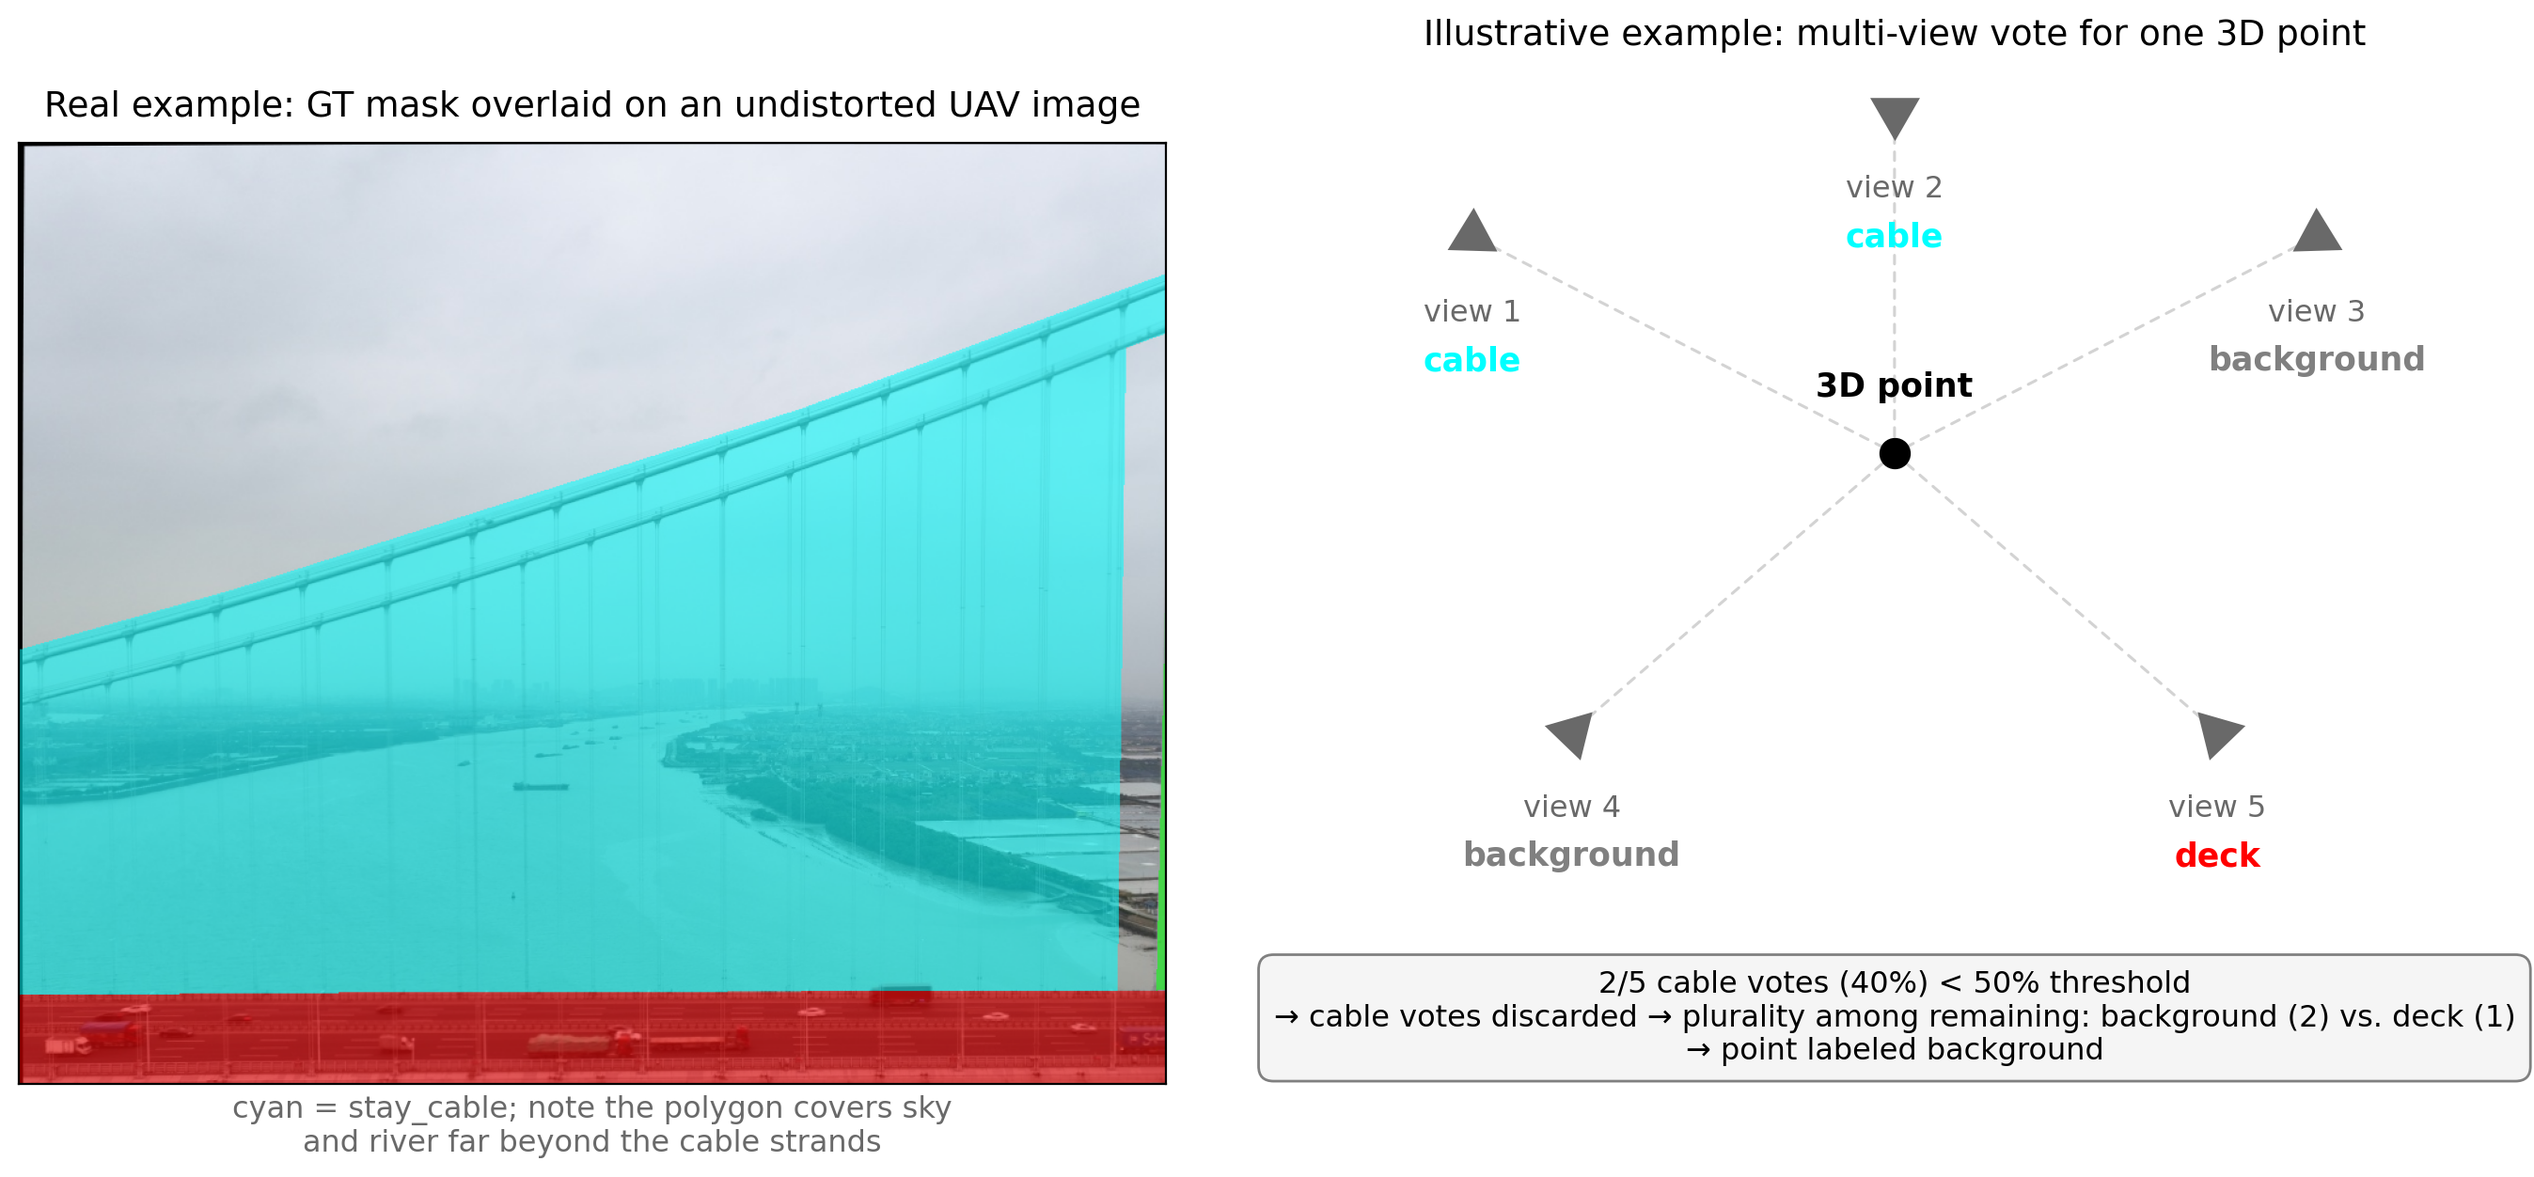
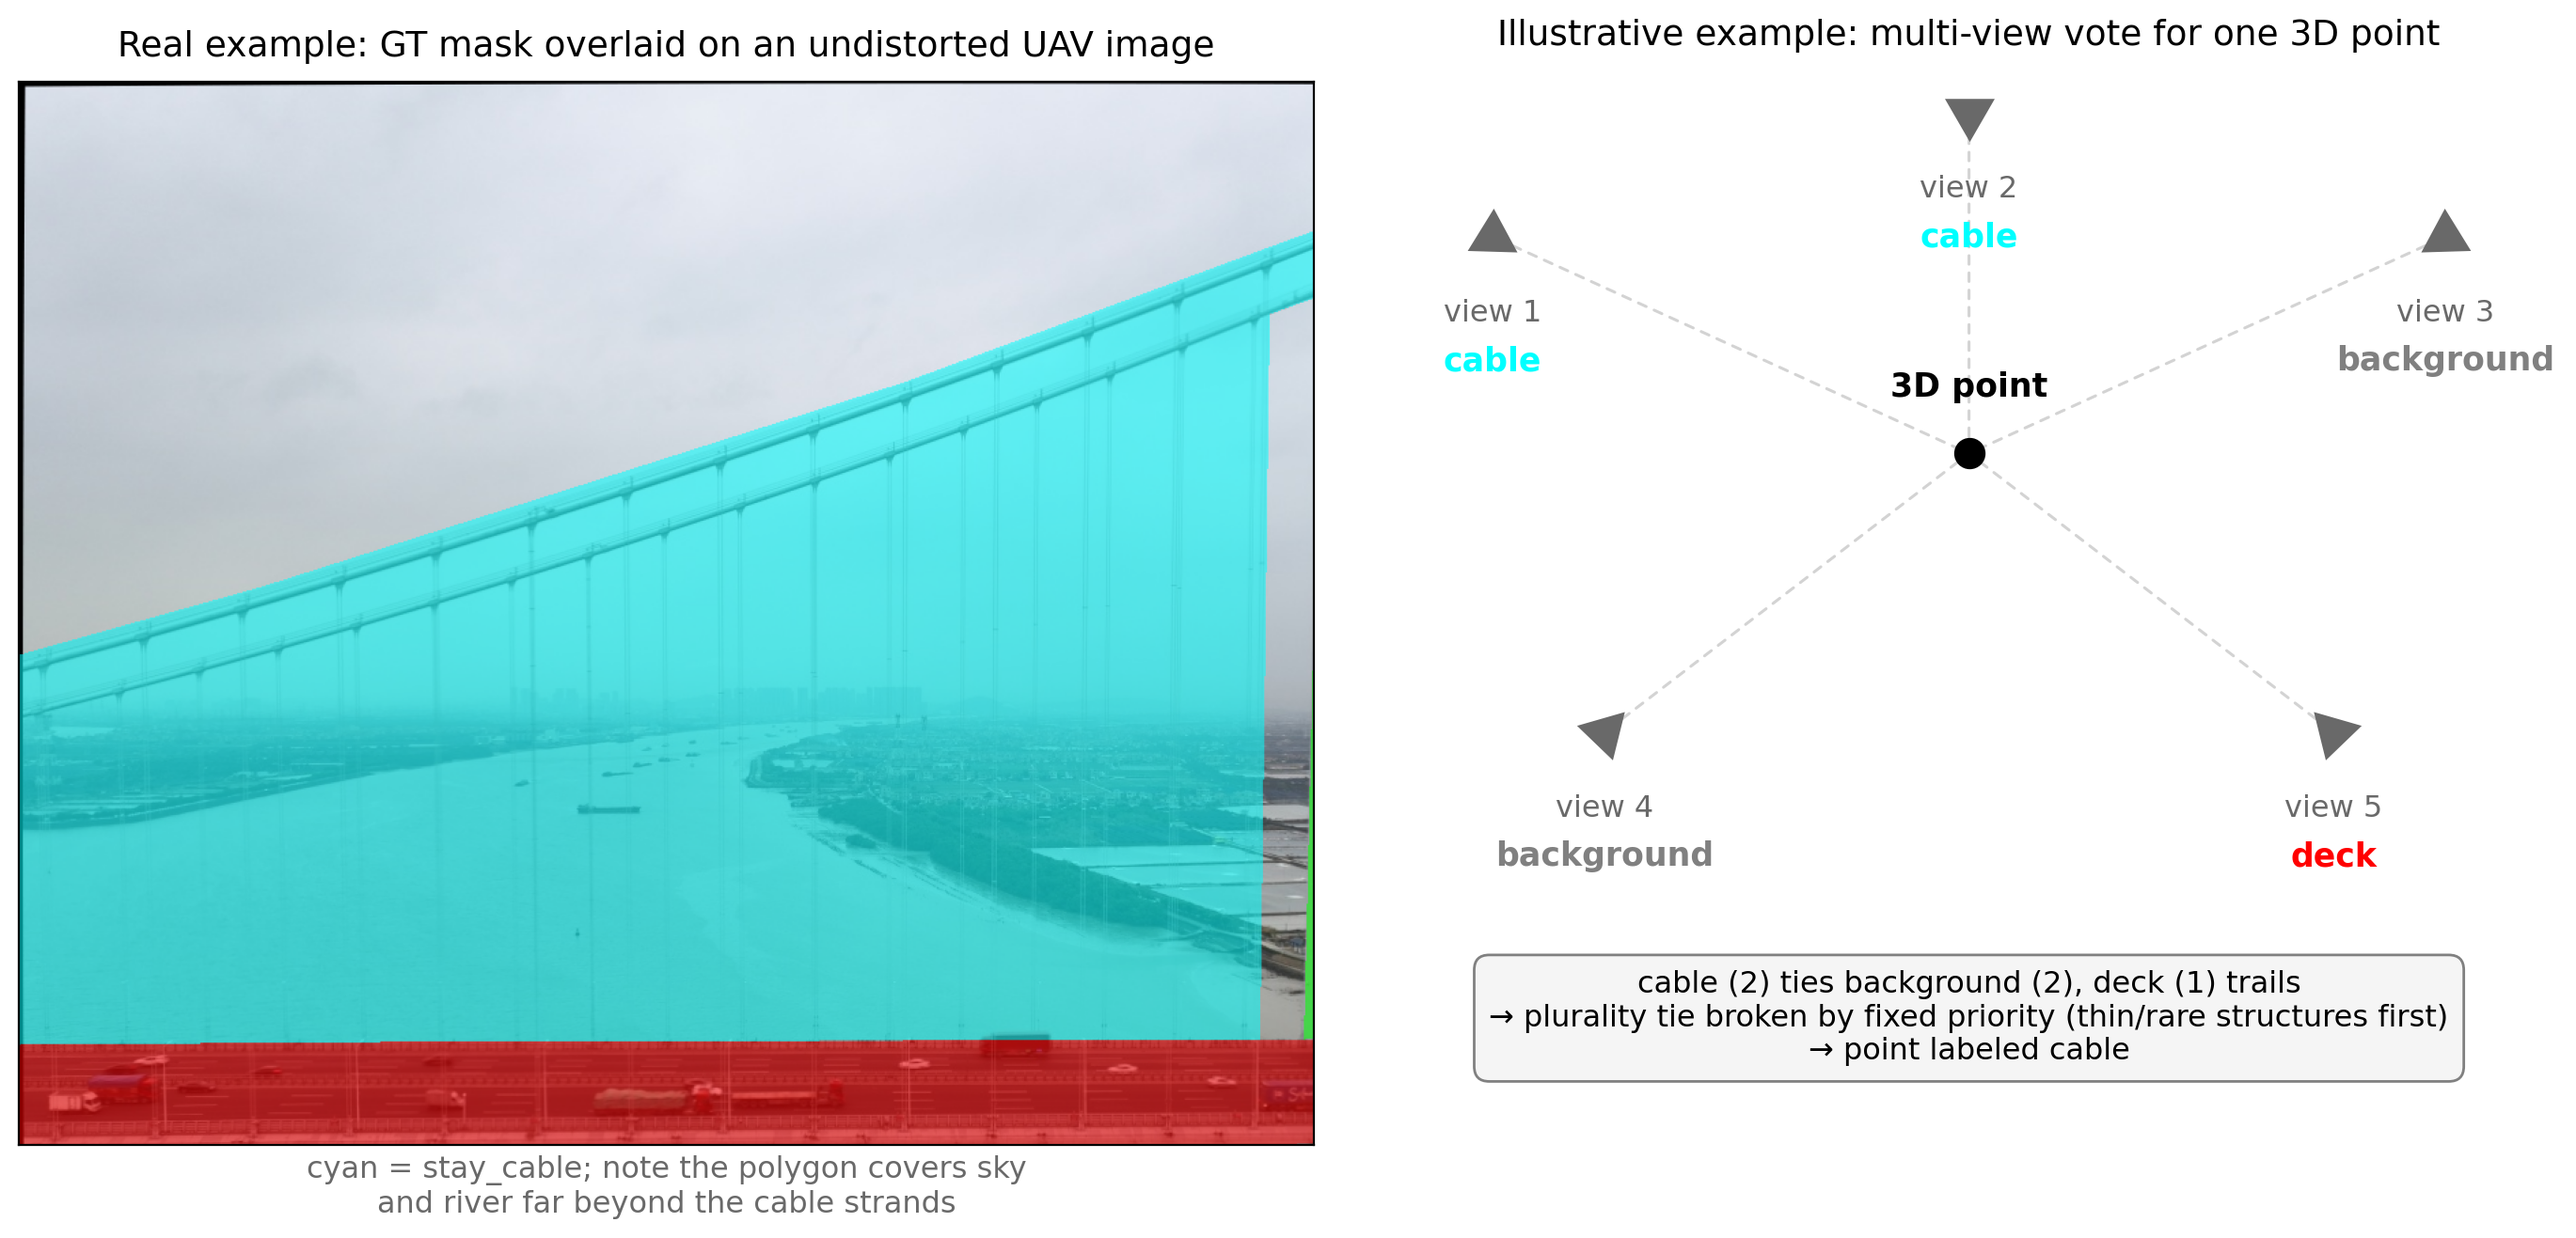
feat: describe plain plurality as the method in Abstract/Intro/Section 3.4
Rewrites the Abstract, Introduction contribution bullets, and Section
3.4's semantic warm-start description to present plain multi-view
plurality voting (with tie-break) as the actual design, moving the
strict-majority cable-specific rule to a "tested but not adopted"
alternative (elaborated in Section 5.2). Updates headline numbers to
the plain-plurality checkpoint's (PSNR 22.19, SSIM 0.849, LPIPS 0.335,
mIoU 91.28%). Regenerates Figure 1 (600,958 Gaussians, generic voting
label) and Figure 2 (right panel now illustrates plain plurality +
tie-break instead of the strict-majority mechanism).

diff --git a/src/evaluation/plot_pipeline_diagram.py b/src/evaluation/plot_pipeline_diagram.py
@@ -84,7 +84,7 @@ def plot_pipeline_diagram(output_path: str) -> str:
     b1_b, b1_t, b1_l, b1_r = _box(ax, right_x, 14.0, bw, bh, "Task A: fine-tune SegFormer\n(240 labeled training views)")
 
     # Row 2
-    a2_b, a2_t, a2_l, a2_r = _box(ax, left_x, 11.6, bw, bh, "Multi-view semantic voting\n(strict-majority rule for cable)")
+    a2_b, a2_t, a2_l, a2_r = _box(ax, left_x, 11.6, bw, bh, "Multi-view semantic voting\n(majority vote per point)")
     b2_b, b2_t, b2_l, b2_r = _box(ax, right_x, 11.6, bw, bh, "Predict pseudo-masks for\n100 unlabeled images")
 
     # Row 3
@@ -98,7 +98,7 @@ def plot_pipeline_diagram(output_path: str) -> str:
     )
 
     # Trained model
-    tm_b, tm_t, tm_l, tm_r = _box(ax, 5, 4.5, 5.4, 1.4, "Trained model\n(602,363 Gaussians)")
+    tm_b, tm_t, tm_l, tm_r = _box(ax, 5, 4.5, 5.4, 1.4, "Trained model\n(600,958 Gaussians)")
 
     # Render
     r_b, r_t, r_l, r_r = _box(ax, 5, 2.4, 7.0, 1.3, "render(pose): arbitrary camera viewpoint",
@@ -186,7 +186,7 @@ def plot_pipeline_diagram_horizontal(output_path: str) -> str:
     b1_b, b1_t, b1_l, b1_r = _box(ax, sub_r, row1_y, bw, bh, "Task A: fine-tune SegFormer\n(240 labeled training views)",
                                    face=MERGE_COLOR, edge=MERGE_EDGE, fontsize=15.5, fontweight="bold")
 
-    a2_b, a2_t, a2_l, a2_r = _box(ax, sub_l, row2_y, bw, bh, "Multi-view semantic voting\n(strict-majority rule for cable)", fontsize=15.5)
+    a2_b, a2_t, a2_l, a2_r = _box(ax, sub_l, row2_y, bw, bh, "Multi-view semantic voting\n(majority vote per point)", fontsize=15.5)
     b2_b, b2_t, b2_l, b2_r = _box(ax, sub_r, row2_y, bw, bh, "Predict pseudo-masks for\n100 unlabeled images", fontsize=15.5)
 
     a3_b, a3_t, a3_l, a3_r = _box(ax, sub_l, row3_y, bw, bh, "Semantic warm-start\n(Gaussian means,\ncolors, logits)", fontsize=15.5)
@@ -201,7 +201,7 @@ def plot_pipeline_diagram_horizontal(output_path: str) -> str:
     tm_top = merge_b[1] - CHAIN_GAP
     tm_h = 1.6
     tm_cy = tm_top - tm_h / 2
-    tm_b, tm_t, tm_l, tm_r = _box(ax, right_x, tm_cy, 6.4, tm_h, "Trained model\n(602,363 Gaussians)", fontsize=17)
+    tm_b, tm_t, tm_l, tm_r = _box(ax, right_x, tm_cy, 6.4, tm_h, "Trained model\n(600,958 Gaussians)", fontsize=17)
 
     render_top = tm_b[1] - CHAIN_GAP
     render_h = 1.5

diff --git a/src/evaluation/plot_cable_voting_figure.py b/src/evaluation/plot_cable_voting_figure.py
@@ -1,15 +1,16 @@
 """
 Renders Figure 2 (Section 3.4): a two-panel illustration of the background-bleeding problem in
-cable annotations and the strict-majority voting rule that counteracts it.
+cable annotations and the multi-view plurality voting mechanism used to initialize each
+Gaussian's semantic logits from it.
 
 Panel A is real data: a crop of an actual undistorted UAV image with its ground-truth mask
 overlaid (official per-class colors), showing that the `stay_cable` polygon covers large regions
 of sky/water rather than just the thin cable strands - not a staged example.
 
-Panel B is a schematic (not tied to one specific real 3D point) illustrating the multi-view
-voting mechanism: several cameras observe a 3D point, a minority of them see it as cable, and
-because that falls short of an absolute majority, the strict-majority rule (Section 3.4) falls
-back to plurality among the non-cable votes.
+Panel B is a schematic (not tied to one specific real 3D point) illustrating the voting
+mechanism: several cameras observe a 3D point and vote by simple plurality, with ties broken by
+a fixed priority that favors thin/rare structural classes over background. Section 5.2 discusses
+a stricter, cable-specific alternative rule we tested and did not adopt.
 """
 import os
 
@@ -94,9 +95,9 @@ def draw_voting_schematic(ax):
 
     ax.text(
         0, -4.5,
-        "2/5 cable votes (40%) < 50% threshold\n"
-        "→ cable votes discarded → plurality among remaining: background (2) vs. deck (1)\n"
-        "→ point labeled background",
+        "cable (2) ties background (2), deck (1) trails\n"
+        "→ plurality tie broken by fixed priority (thin/rare structures first)\n"
+        "→ point labeled cable",
         ha="center", va="top", fontsize=11.5, color="black",
         bbox=dict(boxstyle="round,pad=0.5", facecolor="#f5f5f5", edgecolor="gray"),
     )

diff --git a/paper/DRAFT.md b/paper/DRAFT.md
@@ -17,11 +17,10 @@ semantic logit vector, rendered jointly with color through a single fused raster
 that the two outputs are pixel-aligned by construction. A 2D segmentation model pseudo-labels
 unlabeled frames to widen semantic supervision to every available image, and the Gaussian model
 is warm-started from a multi-view, majority-voted sparse point cloud rather than random
-initialization, using a strict-majority rule that specifically counteracts the background-bleeding
-noise characteristic of thin cable annotations. On a 60-view held-out split drawn from the same
-UAV flight trajectory but excluded from every stage of training, our method achieves PSNR 22.18
-dB, SSIM 0.849, LPIPS 0.334, and structural mIoU 91.47% across the four bridge component classes
-(deck, stay cable, tower, foundation), for an illustrative Accuracy Score of 0.816. Beyond the
+initialization. On a 60-view held-out split drawn from the same UAV flight trajectory but
+excluded from every stage of training, our method achieves PSNR 22.19 dB, SSIM 0.849, LPIPS
+0.335, and structural mIoU 91.28% across the four bridge component classes (deck, stay cable,
+tower, foundation), for an illustrative Accuracy Score of 0.815. Beyond the
 contest's scoring criteria, the resulting model functions as a queryable digital twin of the
 bridge, rendering both appearance and structural identity from viewpoints never captured during
 data acquisition — a basis for downstream structural health monitoring tasks that must be scoped
@@ -73,22 +72,21 @@ We address these challenges with a semantic 3D Gaussian Splatting pipeline whose
    with no separate semantic-segmentation-of-renders post-process, and guaranteeing the two
    outputs are pixel-aligned by construction.
 2. A semantic warm-start strategy that initializes each Gaussian's class logits from multi-view
-   majority-voted labels on a triangulated sparse point cloud instead of random initialization,
-   using a strict-majority voting rule targeted specifically at the cable class to counteract its
-   characteristic background-bleeding noise.
+   majority-voted labels on a triangulated sparse point cloud instead of random initialization.
 3. A 2D pseudo-labeling stage (fine-tuned SegFormer) that extends semantic supervision to the
    100 unlabeled frames, increasing the effective training-view count from 240 to 340 at no
    additional annotation cost.
 4. An empirical study of training resolution's effect on reconstruction quality, showing
    full-resolution training yields consistent gains over half-resolution across every metric
    (Section 5.5).
-5. An ablation isolating the cable voting rule and semantic warm-start's individual
-   contributions to final holdout IoU (Section 5.2), showing that while the voting rule
-   measurably cleans the warm-start data, neither mechanism has a measurable effect on cable's
-   final IoU once training converges - evidence that training dynamics, not initialization
-   quality, explain cable's counter-intuitively strong performance.
-5. End-to-end results on the contest's trajectory-interleaved 60-view holdout: PSNR 22.18 dB,
-   SSIM 0.849, LPIPS 0.334, and structural mIoU 91.47%.
+5. An ablation isolating the semantic warm-start's contribution to final holdout IoU
+   (Section 5.2), including a stricter, cable-specific voting rule we tested as a candidate
+   refinement: it measurably cleans the warm-start data itself but, like the warm-start
+   mechanism more broadly, has no measurable effect on cable's final IoU once training
+   converges - evidence that training dynamics, not initialization quality, explain cable's
+   counter-intuitively strong performance at the iteration budget used here.
+6. End-to-end results on the contest's trajectory-interleaved 60-view holdout: PSNR 22.19 dB,
+   SSIM 0.849, LPIPS 0.335, and structural mIoU 91.28%.
 
 Our full implementation, including the scripts used to reproduce every number reported in this
 paper, is publicly available. **[NEEDS: repository URL once the submission link is finalized.]**
@@ -255,46 +253,32 @@ Gaussian into a carrier of both appearance and structural identity.
 practice, we exploit the sparse point cloud from Section 3.2 as a geometric and semantic prior.
 Each Gaussian's initial position and color are taken directly from a corresponding triangulated
 point, and its semantic logits are warm-started from that point's class, determined by a
-multi-view majority vote over the 2D masks of every training view that observes it. Because
-stay cables are slender and prone to background bleeding (Figure 2) — sky and water pixels are
-easily misclassified as cable in coarse 2D polygon annotations — the vote enforces a strict absolute
-majority (greater than 50% of observing views) before assigning the cable class; if no class
-reaches this majority among cable votes, cable votes are discarded and the remaining classes
-compete by plurality with a fixed tie-break priority. This asymmetric rule is applied only to
-the cable class, not to all five classes uniformly. Requiring an absolute majority for every
-class would be counterproductive: with five competing classes, votes for an ambiguous point
-(e.g., one partially occluded in a subset of views) split naturally, so failing to reach 50% is
-the common case rather than a useful signal, and a blanket majority requirement would simply
-discard many genuinely structural points into an uninformative fallback. We verified this
-asymmetry directly on the training-view vote data rather than assuming it: among the 75,963
-sparse points with at least one train-view observation, computing each point's plurality-winning
-class and the vote share that
-winner received shows deck, tower, foundation, and background winning with high, consistent
-margins (mean winning-class vote share 97.6–99.5%; the winner exceeds an absolute majority for
-98.1–99.3% of points won by that class), while stay_cable's plurality wins are markedly less
-consistent (mean vote share 92.0%; only 94.6% clear an absolute majority). Applying the strict
-majority rule to the raw vote counts reclassifies 416 of the 7,673 points that plain plurality
-would have labeled cable (5.4%) to a different class — and 384 of those 416 (92.3%) move
-specifically to background, not to deck or tower, which is precisely the pattern predicted by
-the background-bleeding hypothesis rather than one consistent with generic vote noise. Cable is
-the exception precisely because its label noise is systematic rather than random: it stems from
-the annotation process itself (a polygon necessarily traces a region around a thin cable, not
-the cable pixels alone), not merely from cable occupying few pixels, so only cable benefits from
-— and needs — this stricter threshold.
+multi-view plurality vote over the 2D masks of every training view that observes it: each
+observing view casts one vote for the class it sees at that point's projected pixel, and the
+class with the most votes wins, with a fixed tie-break priority (favoring thin/rare structural
+classes over background) resolving exact ties. The winning class is encoded as a scaled one-hot
+logit (+2 at the voted class, −2 elsewhere) rather than a hard, unbreakable label, so that the
+semantic channel begins optimization from an informed prior instead of from noise, while
+remaining free to be corrected by the photometric and semantic losses during training.
+
+Stay cables are slender, and because a 2D polygon annotation necessarily traces a region around a
+whole cable rather than its individual pixels, disproportionately prone to background bleeding
+(Figure 2) — sky and water pixels absorbed into the cable label. This raises an obvious design
+question: should the vote require a stricter margin specifically for the cable class, to guard
+against this bleeding contaminating its warm-start? Section 5.2 reports an ablation testing
+exactly this — a stricter, cable-specific absolute-majority rule — and finds it unnecessary: it
+measurably cleans the warm-start data but has no effect on cable's final holdout IoU once
+training converges, so we use the same plain plurality rule for every class rather than adding a
+cable-specific exception.
 
 ![Figure 2: Background-bleeding in cable annotations and the multi-view voting rule](figures/fig2_cable_voting.png)
 
-**Figure 2.** Background-bleeding in cable annotations and the multi-view voting rule. Left: a
+**Figure 2.** Background-bleeding in cable annotations and the multi-view plurality vote. Left: a
 real ground-truth mask overlaid on its undistorted UAV photo — the `stay_cable` polygon (cyan)
 covers a large triangular region of sky and river far beyond the cable strands themselves. Right:
 an illustrative (not one specific real point) schematic of the voting mechanism — each triangle
 is a camera, oriented to face the 3D point being voted on, labeled with the class it observes
 there.
-
-The winning class is encoded as a scaled one-hot
-logit (+2 at the voted class, −2 elsewhere) rather than a hard, unbreakable label, so that the
-semantic channel begins optimization from an informed prior instead of from noise, while
-remaining free to be corrected by the photometric and semantic losses during training.
 
 **Fused rendering.** A central design choice of our method is that RGB and semantic outputs
 share a single rasterization pass. We concatenate each Gaussian's RGB color (3 channels) and
